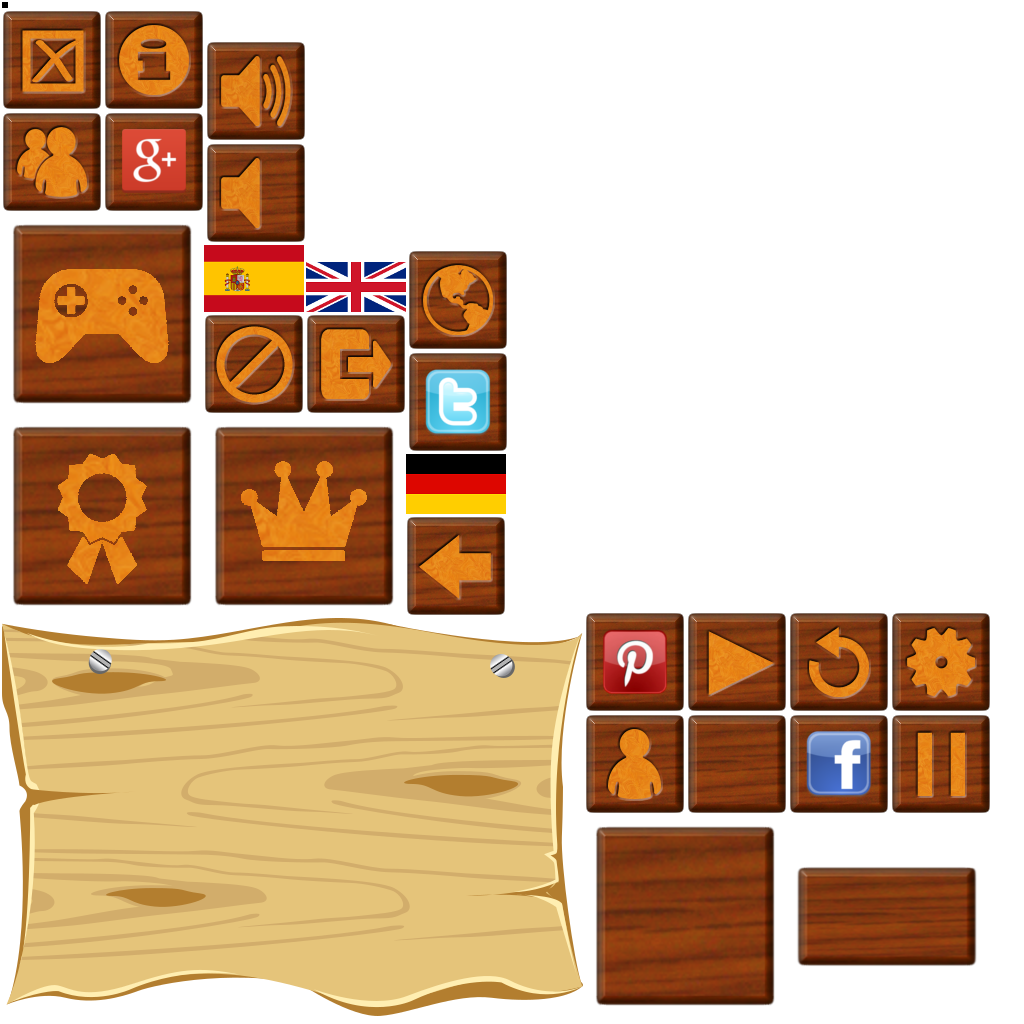
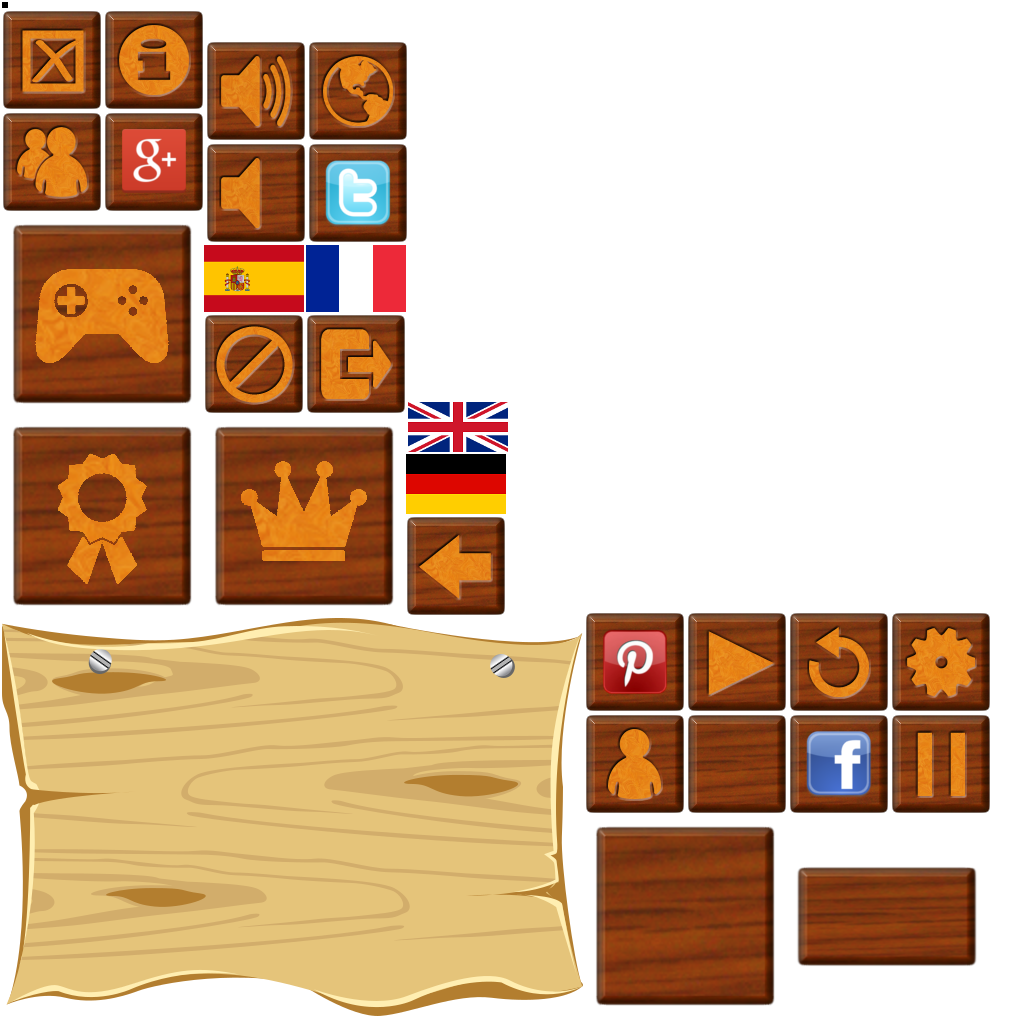
issue #25: added french language

Changed region(s): [[0.2812, 0.0312, 0.5, 0.4688]]

diff --git a/core/src/com/gitlab/ardash/appleflinger/screens/LanguageDialog.java b/core/src/com/gitlab/ardash/appleflinger/screens/LanguageDialog.java
@@ -58,6 +58,8 @@ public class LanguageDialog extends Dialog{
 		getContentTable().row().minHeight(180).top();
 		getContentTable().add(makeLingoButton(Assets.SpriteAsset.FLAG_EN, "english"));
 		getContentTable().add(makeLingoButton(Assets.SpriteAsset.FLAG_ES, "español"));
+		getContentTable().row().minHeight(180).top();
+		getContentTable().add(makeLingoButton(Assets.SpriteAsset.FLAG_FR, "français"));
 
         getContentTable().row();
         

diff --git a/tests/src/com/gitlab/ardash/appleflinger/testing/sanity/AssetTest.java b/tests/src/com/gitlab/ardash/appleflinger/testing/sanity/AssetTest.java
@@ -58,6 +58,13 @@ public class AssetTest {
 	}
 	
 	@Test
+	public void isI18NWorkingForFR() {
+		I18N.loadLanguageBundle("fr");
+		assertEquals("d'accord", I18N.s("okay"));
+		assertEquals("jeu terminé", I18N.s("gameOver"));
+	}
+	
+	@Test
 	public void arePrpertyFilesComplete() {
 		assertTrue("Asset file not found.", Gdx.files
 				.internal("assets/af.properties").exists());

diff --git a/core/src/com/gitlab/ardash/appleflinger/global/Assets.java b/core/src/com/gitlab/ardash/appleflinger/global/Assets.java
@@ -240,6 +240,7 @@ public class Assets {
 		FLAG_DE,
 		FLAG_EN,
 		FLAG_ES,
+		FLAG_FR,
 		BTN_INFO,
 		BTN_JOYPAD,
 		BTN_LEADER,
